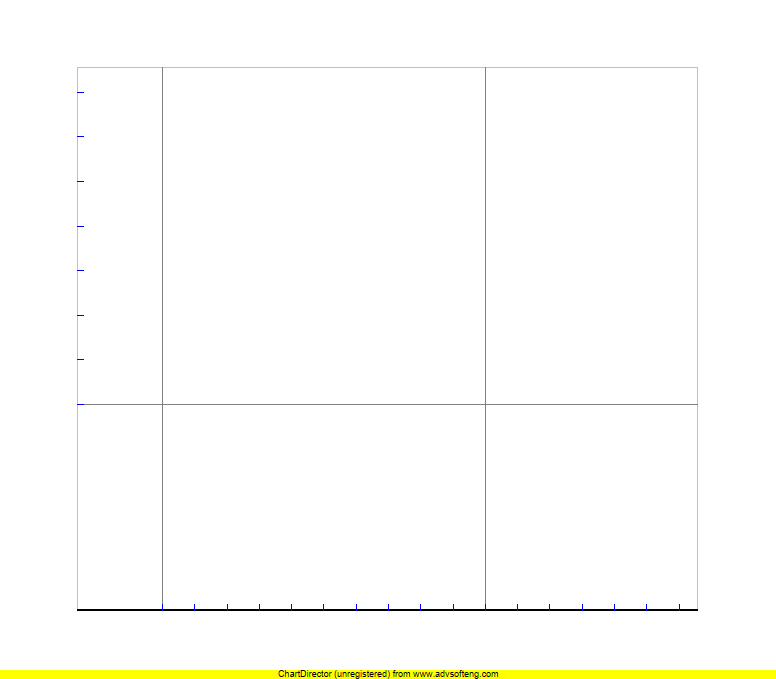
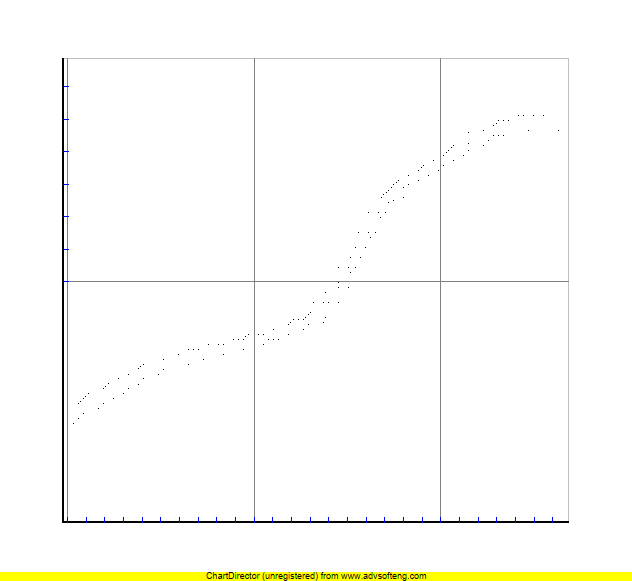
Fixed issue with missing blue ticks at the border.

diff --git a/lib.cpp b/lib.cpp
@@ -6768,7 +6768,7 @@ void DrawPanel::Draw(void){
     cout <<  "... delta_lambda = " << delta_lambda << "\n";
     
     lambda = ((int)((K*(((plot->lambda_min).value)))/delta_lambda))*delta_lambda;
-    for(x_dummy = x_mercator(lambda); x_dummy <= x_max; x_dummy+=k*delta_lambda){
+    for(x_dummy = x_mercator(lambda) - k*delta_lambda; x_dummy <= x_max; x_dummy+=k*delta_lambda){
         
         if((x_dummy >= x_min) && (x_dummy <= x_max)){
             
@@ -6786,7 +6786,7 @@ void DrawPanel::Draw(void){
             //plot the xticks from lambda to the next lambda (lambda + dlambda)
             for(i=0; (((double)i)/10.0)/60.0 < delta_lambda; i++){
                 
-                if(x_dummy + k*(((double)i)/10.0)/60.0 <= x_max){
+                if((x_dummy + k*(((double)i)/10.0)/60.0 >= x_min) && (x_dummy + k*(((double)i)/10.0)/60.0 <= x_max)){
                     //set custom-made minor xticks every tenths (i/10.0) of arcminute (60.0)
                     
                     c->addLine(

diff --git a/main.cpp b/main.cpp
@@ -26,6 +26,7 @@
  -     Now the slider in log scale works, but there is a problem when i de-zoom back to 1:1
  - compute authomatically n_interval_tics by calculating the width of the window and of each label on the axes
 - set up a proper output to a log file
+ - turn gamma_lambda into an unsigned int
  */
 
 
